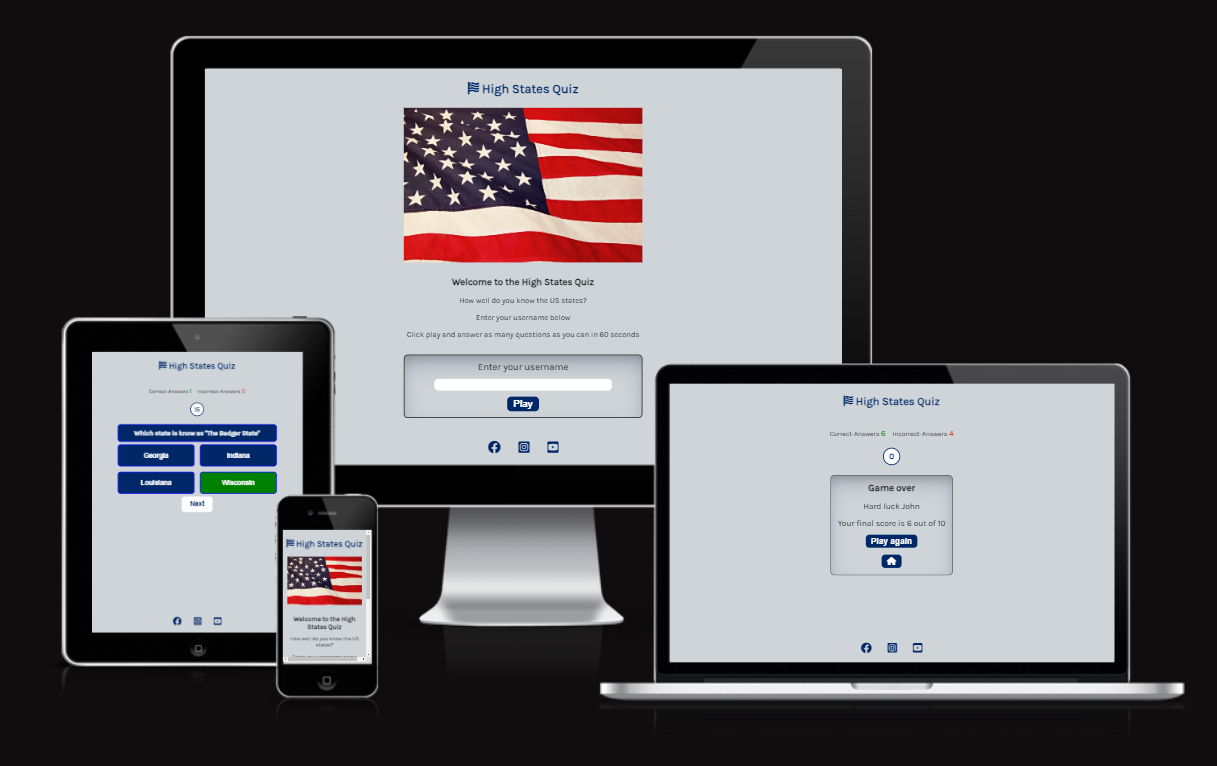
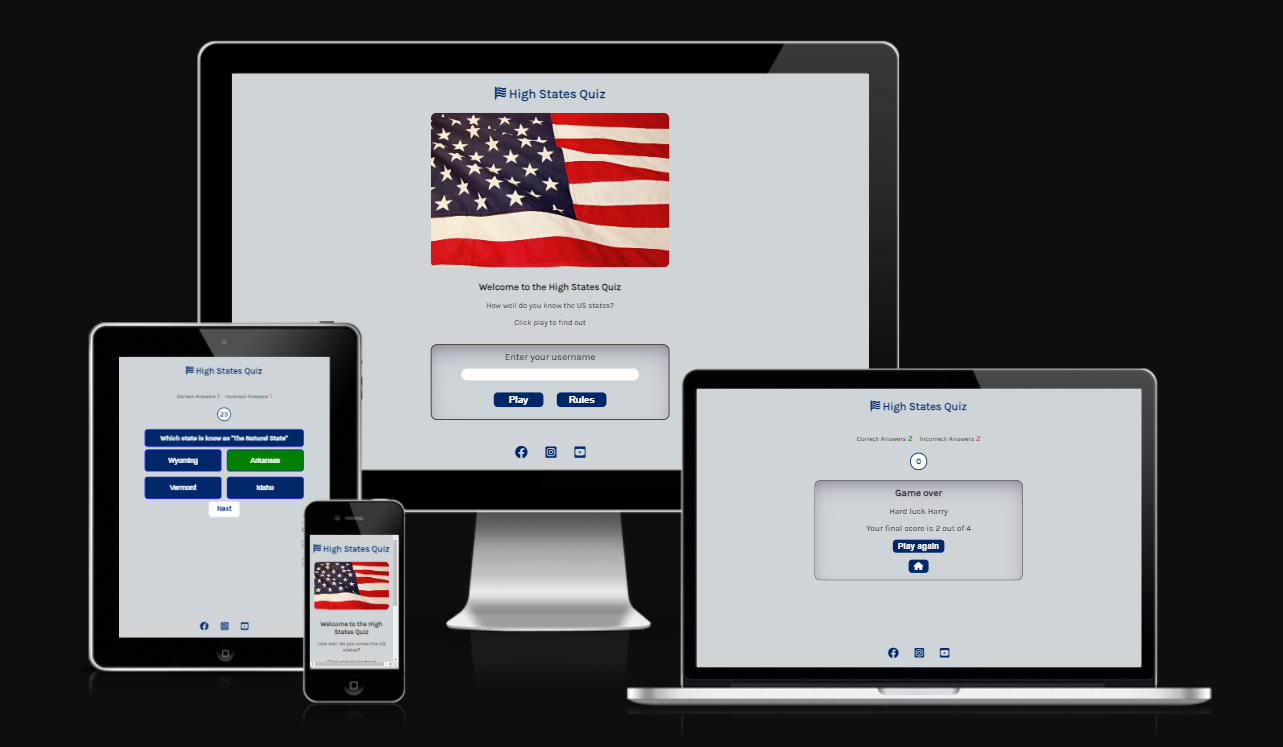
Update wireframe screenshots in README

Changed region(s): [[0.0312, 0.0308, 0.968, 0.9545], [0.3122, 0.4618, 0.3435, 0.5542]]

diff --git a/assets/js/script.js b/assets/js/script.js
@@ -221,7 +221,7 @@ function updateIncorrectScore () {
  /**countdown timer*/
  function countDowntimer () {
        // timerContainer.classList.remove('hide')
-        let currentTime=5;
+        let currentTime=90;
         quizTimer =setInterval(function () {
             currentTime--;
 

diff --git a/README.md b/README.md
@@ -2,7 +2,7 @@
 
 <img src="assets/documentation/high-states-quiz-mockup.PNG" alt="Screenshot from http://ami.responsivedesign.is/ website, that show how the website looks on commons screen sizes">
 
-The high states game is a quiz based game that tests the users knowledge of the nicknames of the states of the United States of America. The user enters their username and then clicks on play game. The user has to answer as many questions as possible in 60 seconds. At the end of the game the user is presented with their final score. 
+The high states game is a quiz based game that tests the users knowledge of the nicknames of the states of the United States of America. The user enters their username and then clicks on play game. The user has to answer as many questions as possible in 90 seconds. At the end of the game the user is presented with their final score. 
 
 -By Eric Blake
 
@@ -24,6 +24,8 @@ The high states game is a quiz based game that tests the users knowledge of the 
 ### Wireframe
 * The wireframe was created using Mockflow.
  <img src="assets/documentation/high-states-quiz-wireframe-home-page.PNG" alt="Screenshot of Wireframe home page">
+  <img src="assets/documentation/high-states-quiz-wireframe-rules.PNG" alt="Screenshot of Wireframe rules modal">
+ <img src="assets/documentation/high-states-quiz-wireframe-invalid-username.PNG" alt="Screenshot of Wireframe invalid username warning message">
  <img src="assets/documentation/high-states-quiz-wireframe-quiz-page.PNG" alt="Screenshot of Wireframe quiz page">
  <img src="assets/documentation/high-states-quiz-wireframe-game-over.PNG" alt="Screenshot of Wireframe game over modal">
 
@@ -57,11 +59,11 @@ The high states game is a quiz based game that tests the users knowledge of the 
 
 ### Countdown timer:
 * The countdown timer starts when the user clicks on play quiz. The first question is presented to the user
-* The timer counts down from 60 seconds, and after 60 seconds the Game-over function is called.
+* The timer counts down from 60 seconds, and after 90 seconds the Game-over function is called.
 <img src="assets/documentation/high-states-quiz-timer.PNG" alt="Screenshot of countdown timer">
 
 ### Game over modal:
-* After 60 seconds has elapsed, the game is over and the user will be presented with their final score
+* After 90 seconds has elapsed, the game is over and the user will be presented with their final score
 <img src="assets/documentation/high-states-quiz-game-over.PNG" alt="Screenshot of gameover message">
 
 
@@ -85,7 +87,7 @@ Add users score to a top scores table
 | If no username or invalid username is entered an invalid username message is displayed   |Pass  | 
 | When valid username is entered and play button selected the quiz begins  |Pass  |
 | When quiz begins a question and four answers are displayed   |Pass   | 
-| When quiz begins the countdown timer starts counting down from 60 seconds  |Pass   | 
+| When quiz begins the countdown timer starts counting down from 90 seconds  |Pass   | 
 | When user selects answer it will flash green if correct and turn red if incorrect | Pass  | 
 | When user selects answer it will turn red if incorrect and correct answer will flash green  | Pass  | 
 | The scoreboard displays the number of correct and incorrect answers  | Pass  | 
